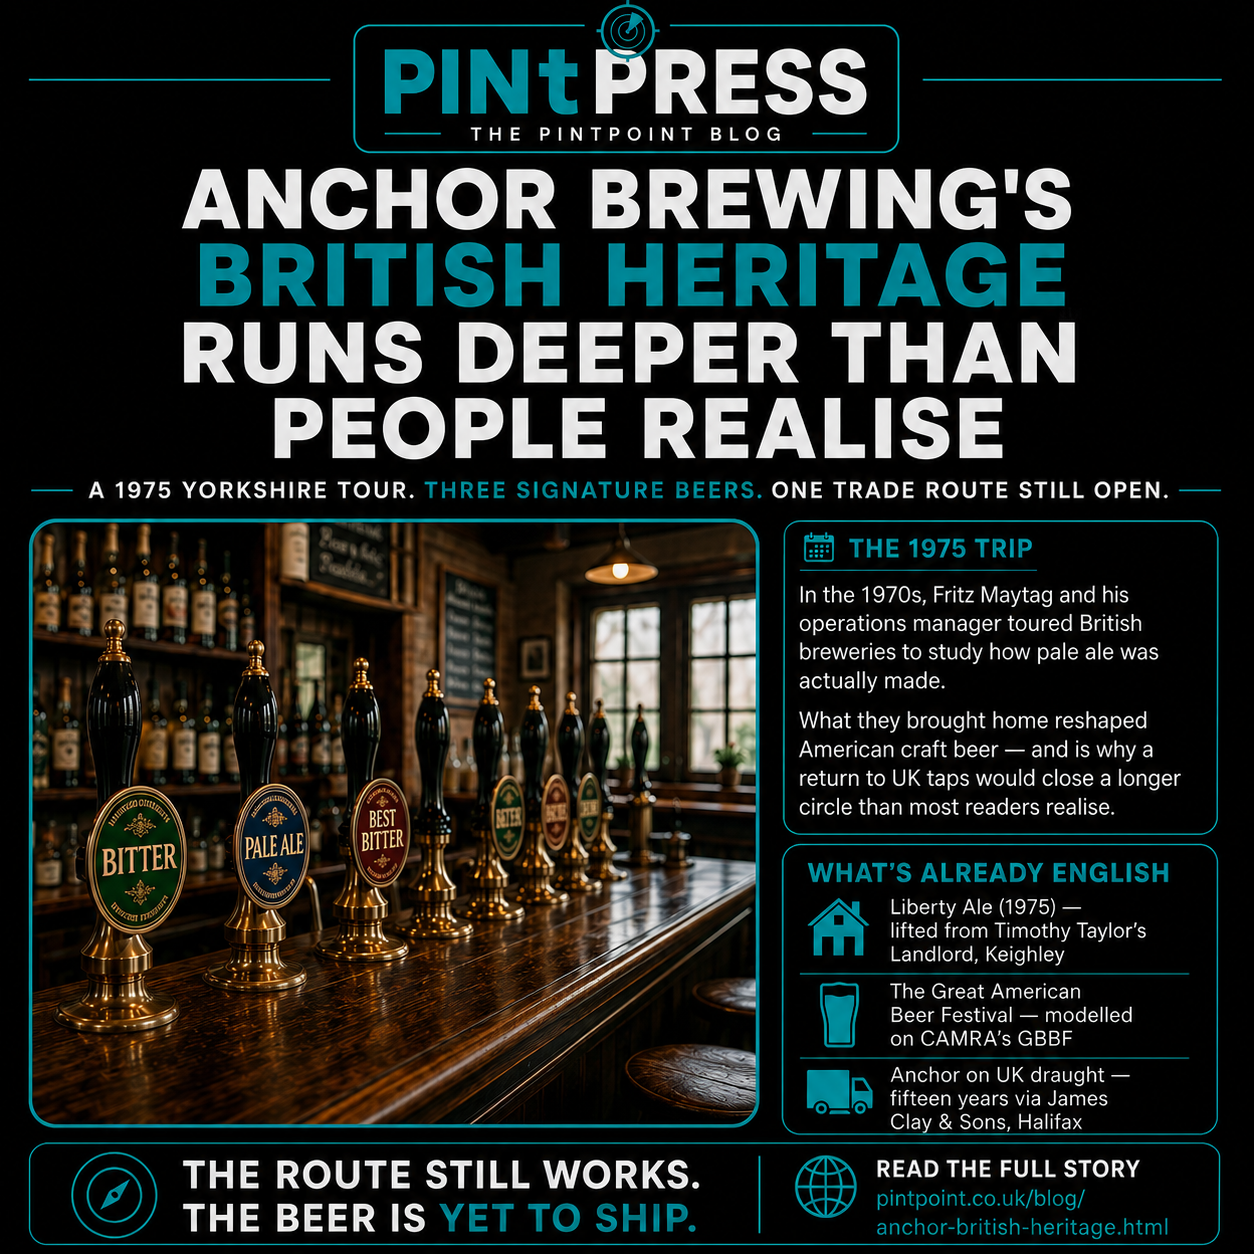
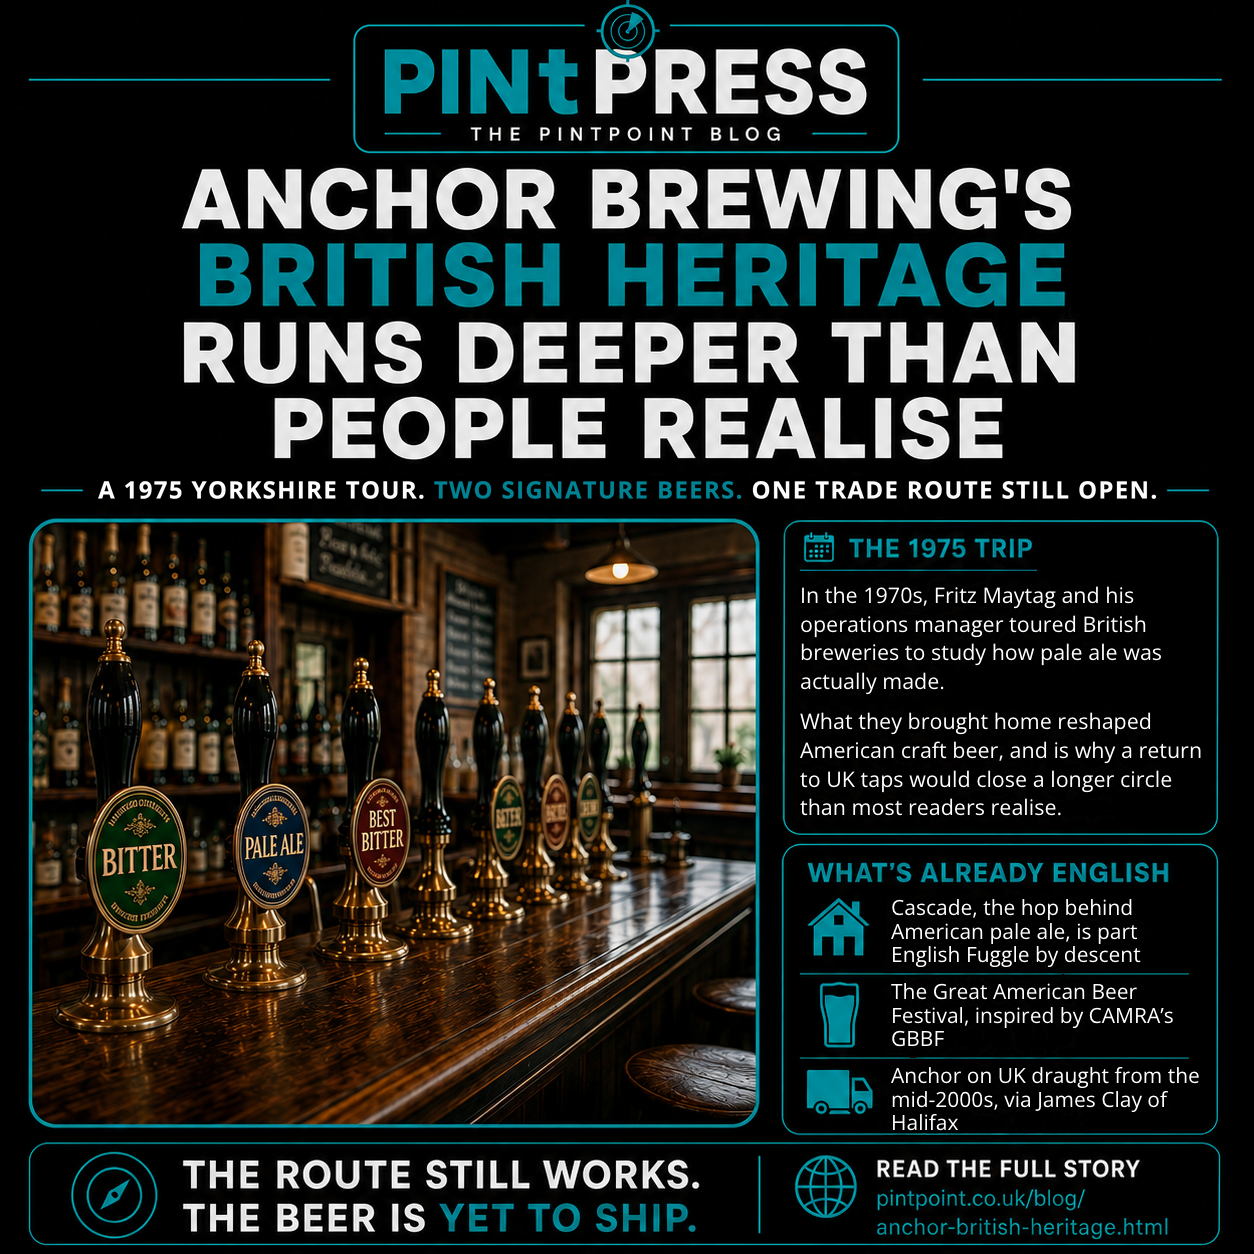
Correct the Anchor share card and point the previews at the wide one
Card now reads two signature beers, not three. Cascade's part-English
descent replaces the Liberty Ale and Landlord line, the festival is
inspired by the GBBF rather than modelled on it, and Anchor on UK
draught is dated from the mid-2000s via James Clay of Halifax.
og:image, twitter:image and the JSON-LD image take the 1200x628
version, and the alt text matches what the card now says.

Changed region(s): [[0.622, 0.4665, 0.9641, 0.6531], [0.7153, 0.7153, 0.9641, 0.9019], [0.0622, 0.3732, 0.933, 0.4043]]

diff --git a/blog/anchor-british-heritage.html b/blog/anchor-british-heritage.html
@@ -12,14 +12,14 @@
   <meta property="og:url" content="https://pintpoint.co.uk/blog/anchor-british-heritage.html" />
   <meta property="og:title" content="Anchor Brewing's British heritage runs deeper than people realise" />
   <meta property="og:description" content="An October 1975 Yorkshire pub tour built two of Anchor's signature beers, though not the one you would guess. CAMRA's festival format gave us the GABF. Anchor first reached British draught in 1991, in borrowed Fuller's kegs. As Anchor prepares to return, the case that its identity was always partly English." />
-  <meta property="og:image" content="https://pintpoint.co.uk/blog/images/anchor-british-heritage.png?v=1" />
-  <meta property="og:image:type" content="image/png" />
-  <meta property="og:image:width" content="1254" />
-  <meta property="og:image:height" content="1254" />
-  <meta property="og:image:alt" content="PINtPRESS card: Anchor Brewing's British heritage runs deeper than people realise. A traditional English pub bar with brass-and-ceramic handpulls on the left (Bitter, Pale Ale, Best Bitter cask clips visible); on the right, a summary of the 1975 Yorkshire trip and three bullets: Liberty Ale lifted from Timothy Taylor's Landlord in Keighley, the Great American Beer Festival modelled on CAMRA's GBBF, and Anchor on UK draught for fifteen years via James Clay & Sons of Halifax. Tagline across the foot: 'The route still works. The beer is yet to ship.'" />
+  <meta property="og:image" content="https://pintpoint.co.uk/blog/images/anchor-british-heritage-x.jpg" />
+  <meta property="og:image:type" content="image/jpeg" />
+  <meta property="og:image:width" content="1200" />
+  <meta property="og:image:height" content="628" />
+  <meta property="og:image:alt" content="PINtPRESS card: Anchor Brewing's British heritage runs deeper than people realise. A traditional English pub bar with brass-and-ceramic handpulls on the left (Bitter, Pale Ale, Best Bitter cask clips visible); on the right, a summary of the 1975 Yorkshire trip and three bullets: Cascade the hop part English Fuggle by descent, the Great American Beer Festival inspired by CAMRA's GBBF, and Anchor on UK draught from the mid-2000s via James Clay of Halifax. Tagline across the foot: 'The route still works. The beer is yet to ship.'" />
   <meta property="fb:app_id" content="1892965231402903" />
   <meta name="twitter:card" content="summary_large_image" />
-  <meta name="twitter:image" content="https://pintpoint.co.uk/blog/images/anchor-british-heritage.png?v=1" />
+  <meta name="twitter:image" content="https://pintpoint.co.uk/blog/images/anchor-british-heritage-x.jpg" />
   <link rel="preconnect" href="https://fonts.googleapis.com" />
   <link href="https://fonts.googleapis.com/css2?family=Inter:wght@400;500;600;700;800&family=Source+Serif+4:ital,opsz,wght@0,8..60,400;0,8..60,600;1,8..60,400;1,8..60,600&display=swap" rel="stylesheet" />
   <script type="application/ld+json">
@@ -33,7 +33,7 @@
     "datePublished": "2026-05-24",
     "dateModified": "2026-10-23",
     "url": "https://pintpoint.co.uk/blog/anchor-british-heritage.html",
-    "image": "https://pintpoint.co.uk/blog/images/anchor-british-heritage.png",
+    "image": "https://pintpoint.co.uk/blog/images/anchor-british-heritage-x.jpg",
     "mainEntityOfPage": "https://pintpoint.co.uk/blog/anchor-british-heritage.html"
   }
   </script>
